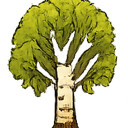
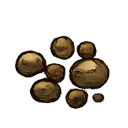
Ubytování

diff --git a/src/styles/global.css b/src/styles/global.css
@@ -209,6 +209,156 @@ ul ul {
   list-style: circle;
 }
 
+table {
+  width: 100%;
+  margin: 16px 0 32px;
+  overflow: hidden;
+  border: 1px solid rgba(255, 255, 255, 0.3);
+  border-collapse: separate;
+  border-spacing: 0;
+  border-radius: 8px;
+  background: rgba(255, 255, 255, 0.7);
+  box-shadow: 0 8px 24px rgba(0, 0, 0, 0.12);
+  color: #263238;
+}
+
+th,
+td {
+  padding: 12px 16px;
+  border-bottom: 1px solid rgba(38, 50, 56, 0.14);
+  text-align: left;
+}
+
+th {
+  color: var(--accent);
+  font-weight: 700;
+  background: rgba(255, 255, 255, 0.22);
+}
+
+th:not(:first-child),
+td:not(:first-child) {
+  width: 28%;
+  border-left: 1px solid rgba(38, 50, 56, 0.14);
+  text-align: center;
+}
+
+tbody tr:last-child td {
+  border-bottom: 0;
+}
+
+#ubytování + table {
+  border-color: rgba(79, 91, 48, 0.72);
+  background: rgba(238, 244, 220, 0.62);
+  box-shadow: 0 8px 24px rgba(35, 54, 27, 0.24);
+  backdrop-filter: blur(10px);
+}
+
+#ubytování + table th {
+  border-bottom: 2px solid rgba(48, 88, 52, 0.45);
+  background: rgba(48, 88, 52, 0.78);
+  color: #fff;
+}
+
+#ubytování + table th:not(:first-child) {
+  border-left-color: rgba(255, 255, 255, 0.2);
+}
+
+#ubytování + table td {
+  border-bottom-color: rgba(61, 85, 47, 0.24);
+}
+
+#ubytování + table td:not(:first-child) {
+  border-left-color: rgba(61, 85, 47, 0.2);
+}
+
+#ubytování + table tbody tr:nth-child(even) {
+  background: rgba(111, 139, 66, 0.14);
+}
+
+#ubytování + table td:first-child {
+  color: #294b2d;
+  font-weight: 600;
+}
+
+.accommodation-place {
+  display: inline-flex;
+  align-items: center;
+  gap: 8px;
+}
+
+.accommodation-place img {
+  flex: 0 0 34px;
+  width: 34px;
+  height: 34px;
+  object-fit: contain;
+}
+
+.accommodation-guest {
+  display: inline-flex;
+  align-items: center;
+  justify-content: center;
+  gap: 6px;
+  white-space: nowrap;
+}
+
+.accommodation-avatar {
+  display: inline-flex;
+  flex: 0 0 32px;
+  align-items: center;
+  justify-content: center;
+  width: 32px;
+  height: 32px;
+  border-radius: 50%;
+  background: rgba(255, 255, 255, 0.7);
+  box-shadow: 0 2px 8px rgba(0, 0, 0, 0.14);
+}
+
+.accommodation-avatar__image {
+  display: block;
+  width: 100%;
+  height: 100%;
+  object-fit: contain;
+}
+
+.accommodation-availability {
+  display: block;
+  margin-top: 4px;
+  color: #2d6a3b;
+  font-size: 0.72rem;
+  font-weight: 700;
+  line-height: 1.25;
+  text-align: center;
+}
+
+@media (max-width: 560px) {
+  #ubytování + table th,
+  #ubytování + table td {
+    padding: 8px 6px;
+    font-size: 0.78rem;
+  }
+
+  .accommodation-place {
+    gap: 4px;
+  }
+
+  .accommodation-place img {
+    flex-basis: 26px;
+    width: 26px;
+    height: 26px;
+  }
+
+  .accommodation-guest {
+    flex-direction: column;
+    gap: 2px;
+  }
+
+  .accommodation-avatar {
+    flex-basis: 28px;
+    width: 28px;
+    height: 28px;
+  }
+}
+
 li:has(> .emoji) {
   list-style: none;
 }

diff --git a/src/scripts/signup.js b/src/scripts/signup.js
@@ -49,6 +49,35 @@ function assignAvatars(participants) {
   return assignments;
 }
 
+function renderAccommodationAvatars(participants, participantAvatars) {
+  const participantsByName = new Map(participants.map((participant) => [participant.name, participant]));
+
+  for (const guest of document.querySelectorAll("[data-participant-name]")) {
+    guest.querySelector(".accommodation-avatar")?.remove();
+
+    const participant = participantsByName.get(guest.dataset.participantName);
+    const avatarUrl = participant && participantAvatars.get(participant.id);
+    if (!avatarUrl) {
+      continue;
+    }
+
+    const avatar = document.createElement("span");
+    avatar.className = "accommodation-avatar";
+
+    const image = document.createElement("img");
+    image.className = "accommodation-avatar__image";
+    image.src = avatarUrl;
+    image.alt = "";
+    image.width = 32;
+    image.height = 32;
+    image.decoding = "async";
+    image.addEventListener("error", () => avatar.remove());
+
+    avatar.appendChild(image);
+    guest.prepend(avatar);
+  }
+}
+
 async function loadParticipants() {
   try {
     const records = await pb.collection("participants").getFullList({
@@ -99,6 +128,8 @@ function render(participants) {
     div.append(avatar, name);
     list.appendChild(div);
   }
+
+  renderAccommodationAvatars(participants, participantAvatars);
 }
 
 form.addEventListener("submit", async (e) => {
